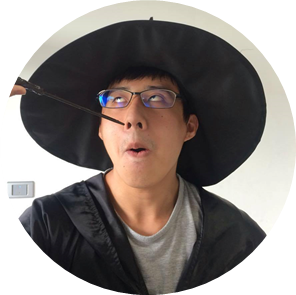
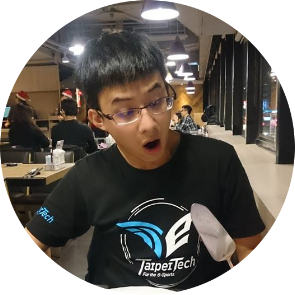
新增網頁分頁Icon, ContactUs的聯絡我們, 更換品儒照片

diff --git a/css/index.css b/css/index.css
@@ -508,6 +508,12 @@ body {
   border-bottom-left-radius: 25px;
   border-bottom-right-radius: 25px;
 }
+@media only screen and (max-width: 768px) {
+  .contactUs .member {
+    height: 20%;
+  }
+}
+
 .contactUs .member .memberPic {
   width: 80%;
   margin-left: 10%;
@@ -545,6 +551,9 @@ body {
   bottom: 0;
   height: 50%;
   width: 100%;
+  display: flex;
+  flex-direction: column;
+  align-items: center;
 }
 .contactUs .contact div {
   text-align: center;
@@ -582,12 +591,18 @@ body {
 .contactUs .contact div .showIntro {
   display: block;
 }
-.contactUs .contact .contact {
+.contactUs .contact {
   position: absolute;
   bottom: 0;
   height: 50%;
   width: 100%;
 }
+@media only screen and (max-width: 768px) {
+  .contactUs .contact {
+    height: 70%;
+  }
+}
+
 .contactUs .contact .contact div {
   text-align: center;
   font-family: "微軟正黑體";
@@ -621,6 +636,74 @@ body {
   width: 100%;
   overflow: hidden;
 }
+
+.contact-form {
+  display: flex;
+  flex-direction: column;
+  justify-content: space-between;;
+  align-items: center;
+  width: 50%;
+  height: 80%;
+}
+@media only screen and (max-width: 768px) {
+  .contact-form {
+    width: 100%;
+  }
+  .contact-form .bigtitle {
+    font-size: 0.5em;
+  }
+  .contact-form > div {
+    width: 100%;
+    display: flex;
+    flex-direction: column;
+  }
+}
+
+.contact-form > div div {
+  width: 100%;
+  display: flex;
+  justify-content: space-between;
+}
+
+@media only screen and (max-width: 768px) {
+  .contact-form > div div {
+    width: 100%;
+    display: flex;
+    justify-content: center;
+  }
+}
+
+.contact .bigtitle {
+  font-size: 2em;
+  font-family: "Title Font";
+  font-weight: bold;
+  color: black;
+}
+
+.contact-form input {
+  width: 100%;
+  height: 80%;
+  font-size: 0.5em;
+}
+
+.contact-form textarea {
+  width: 100%;
+  resize: none;
+}
+
+.contactBtn {
+  width: 100%;
+  display: flex;
+  justify-content: center;
+  align-items: center;
+}
+
+.contactBtn button {
+  width: 50%;
+  display: flex;
+  justify-content: center;
+}
+
 .contactUs .pace .pace-activity {
   position: fixed;
   top: 0;

diff --git a/layout/contactUs.html b/layout/contactUs.html
@@ -39,6 +39,40 @@
     </div>
   </div>
   <div class="contact">
-    <div>聯絡信箱</div>
+    <div class="bigtitle">聯絡我們</div>
+    <div class="contact-form">
+      <div>
+        <labe class="col-md-2 col-sm-2 col-xs-12 control-label">主旨</labe>
+        <div class="col-md-10 col-sm-4 col-xs-6">
+          <input type="text" name="title" id="" class="form-control" placeholder="主旨">
+        </div>
+      </div>
+      <div>
+        <labe class="col-md-2 col-sm-2 col-xs-12 control-label">回覆信箱</labe>
+        <div class="col-md-10 col-sm-4 col-xs-6">
+          <input type="email" name="email" id="" class="form-control" placeholder="example@gmail.com">
+        </div>
+      </div>
+      <div>
+        <labe class="col-md-2 col-sm-2 col-xs-12 control-label">分類</labe>
+        <div class="col-md-10 col-sm-4 col-xs-6">
+          <select class="form-control" name="kind" id="">
+            <option value="0">Bug回報</option>
+            <option value="1">其他意見</option>
+          </select>
+        </div>
+      </div>
+      <div>
+        <labe class="col-md-2 col-sm-2 col-xs-12 control-label">內容</labe>
+        <div class="col-md-10 col-sm-4 col-xs-6">
+          <textarea type="text" rows="3" name="report" id="" class="form-control" placeholder="回報內容"></textarea>
+        </div>
+      </div>
+      <div>
+        <div class="contactBtn">
+          <button type="submit" class="btn btn-default btn-block">送出</button>
+        </div>
+      </div>
+    </div>
   </div>
 </div>

diff --git a/js/index.js b/js/index.js
@@ -98,14 +98,21 @@ $(function(){
     if(!$(this).is(":animated")){
       $(this).animate({height:"100%"},'slow');
       $(this).children('.intro').addClass("showIntro");
+      $('.contact').fadeOut(300);
     }
     var index = $(this).index();
     $(this).children('.memberPic').attr("src","images/memberPic" + index + ".png");
   });
   $('.contactUs .member').mouseleave(function(){
-    $(this).animate({height:"50%"},'slow');
+    if($(window).width() <= 768){
+      $(this).animate({height:"20%"},'slow');
+    }
+    else{
+      $(this).animate({height:"50%"},'slow');
+    }
     $(this).children('.intro').removeClass("showIntro");
     $(this).children('.memberPic').attr("src","images/testMember.png");
+    $('.contact').fadeIn(300);
   });
 
   function changeTruthColor(index){
